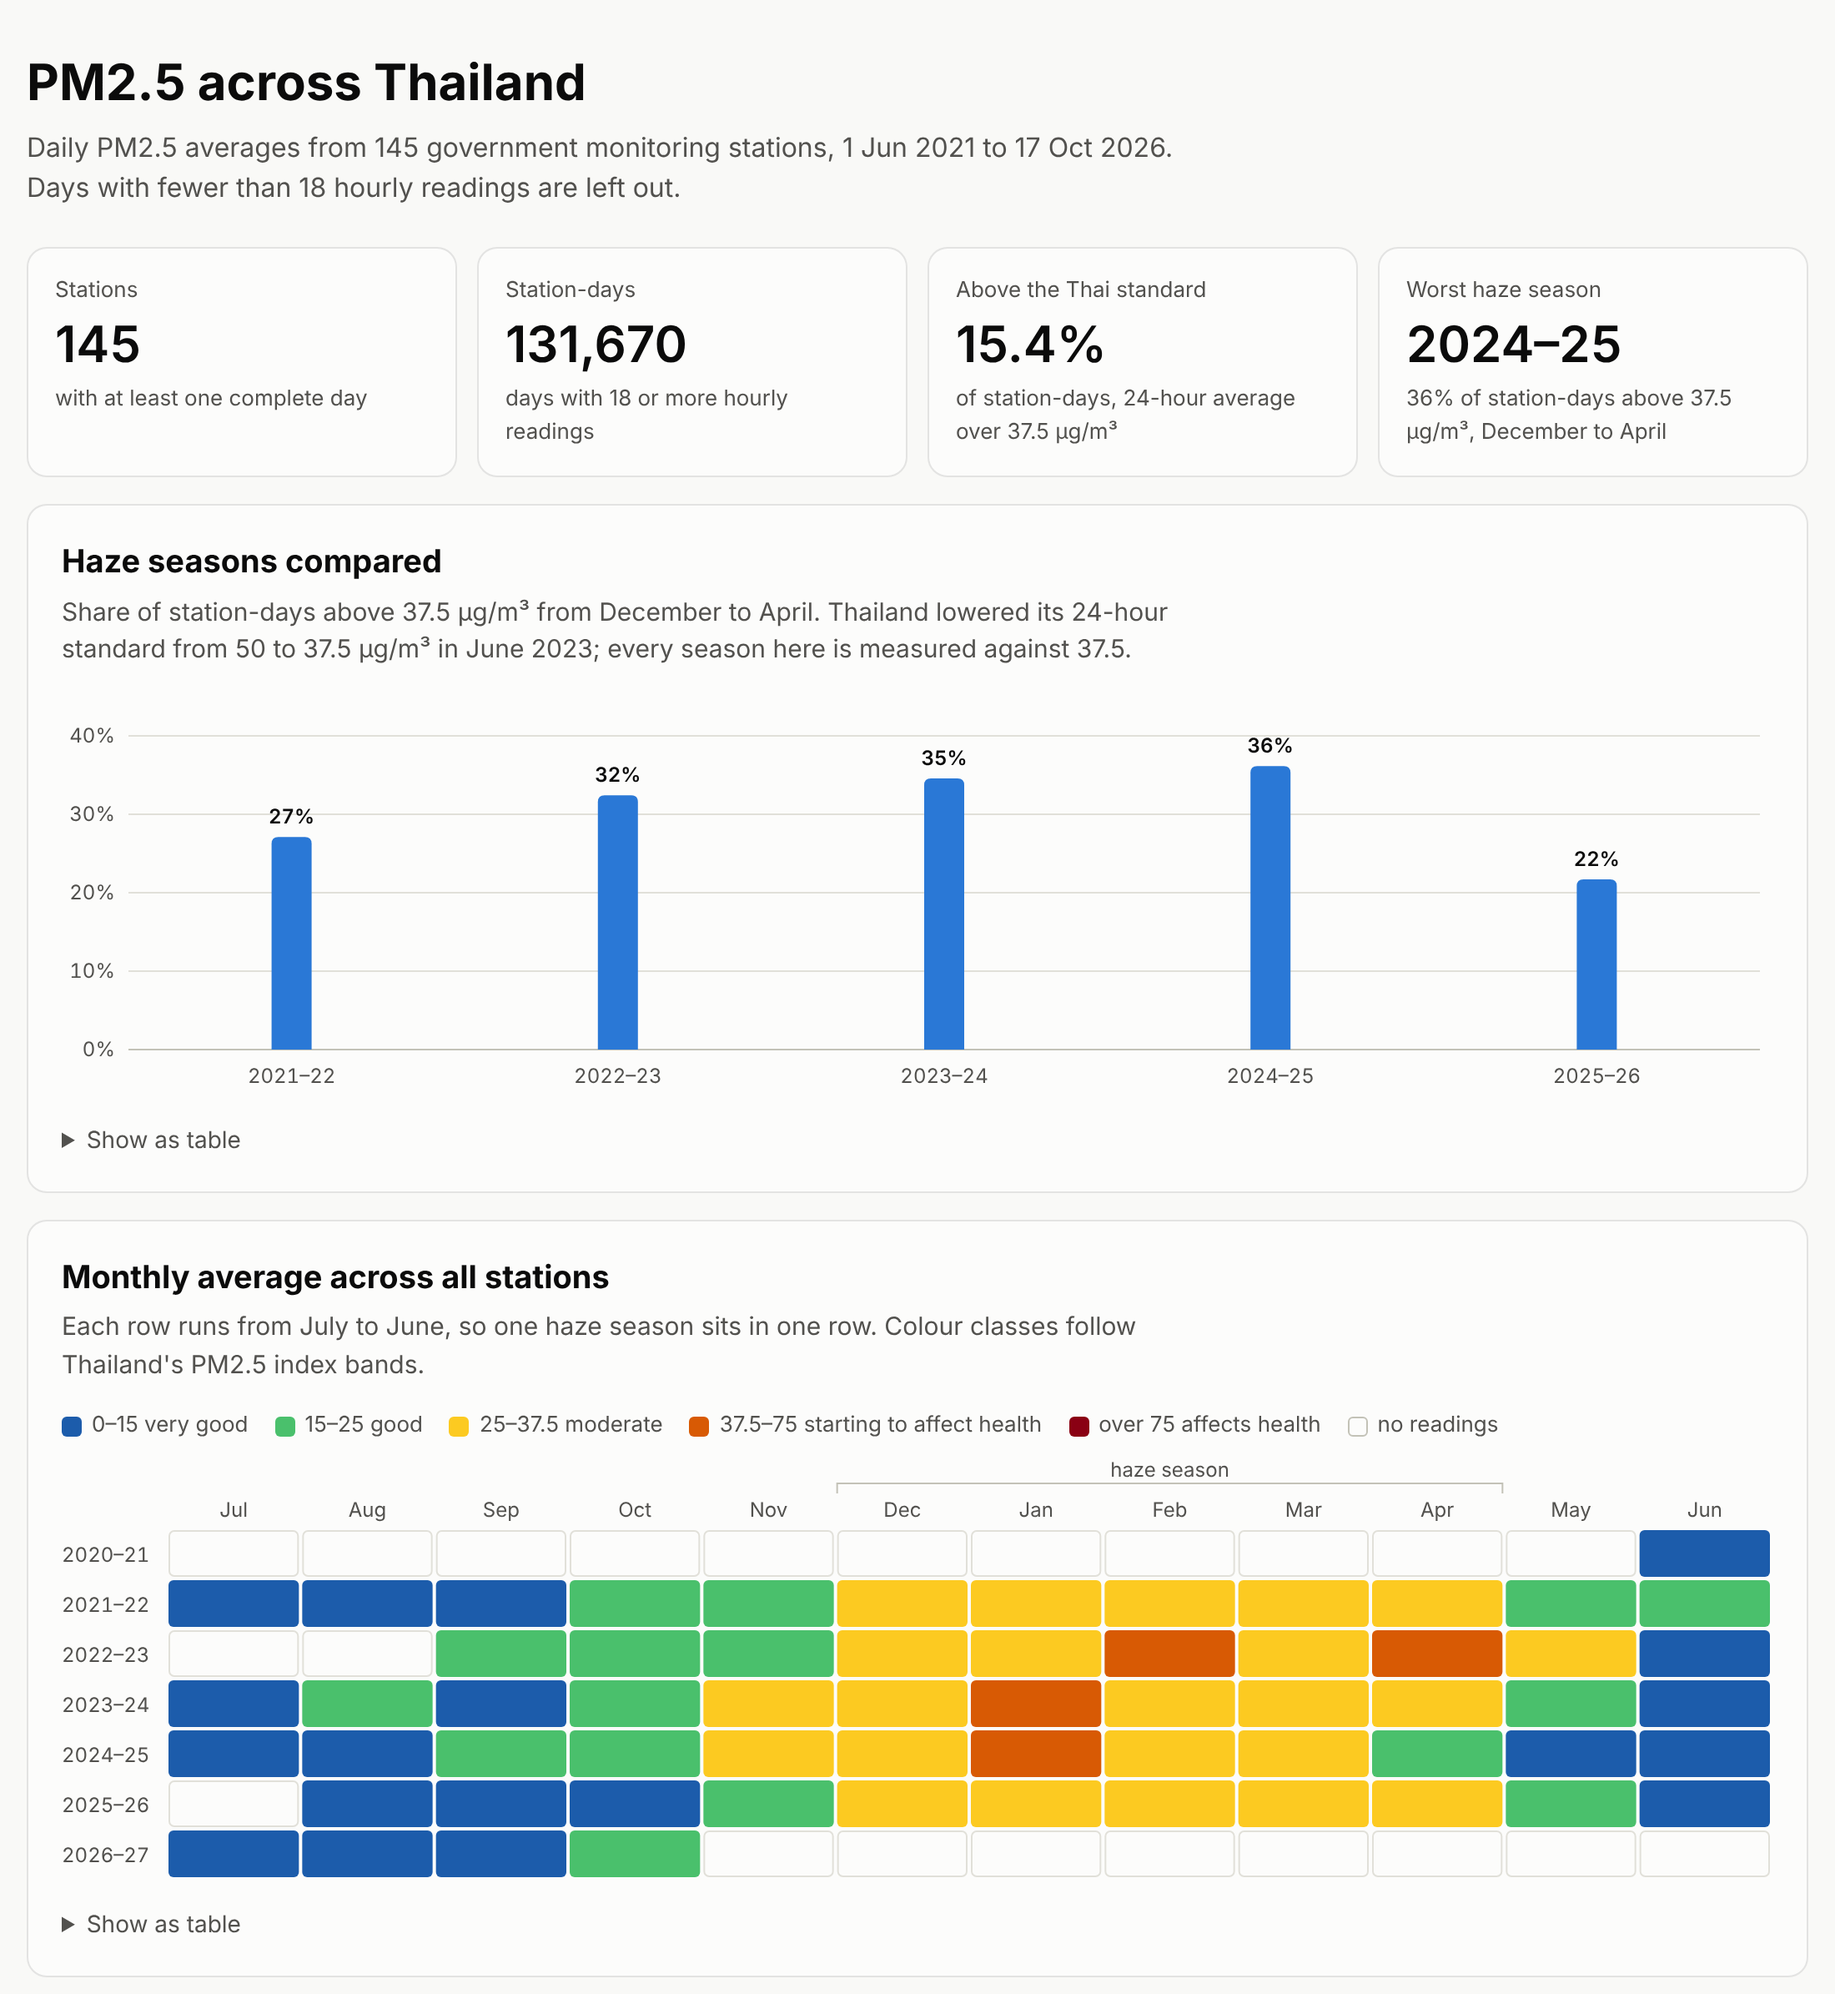
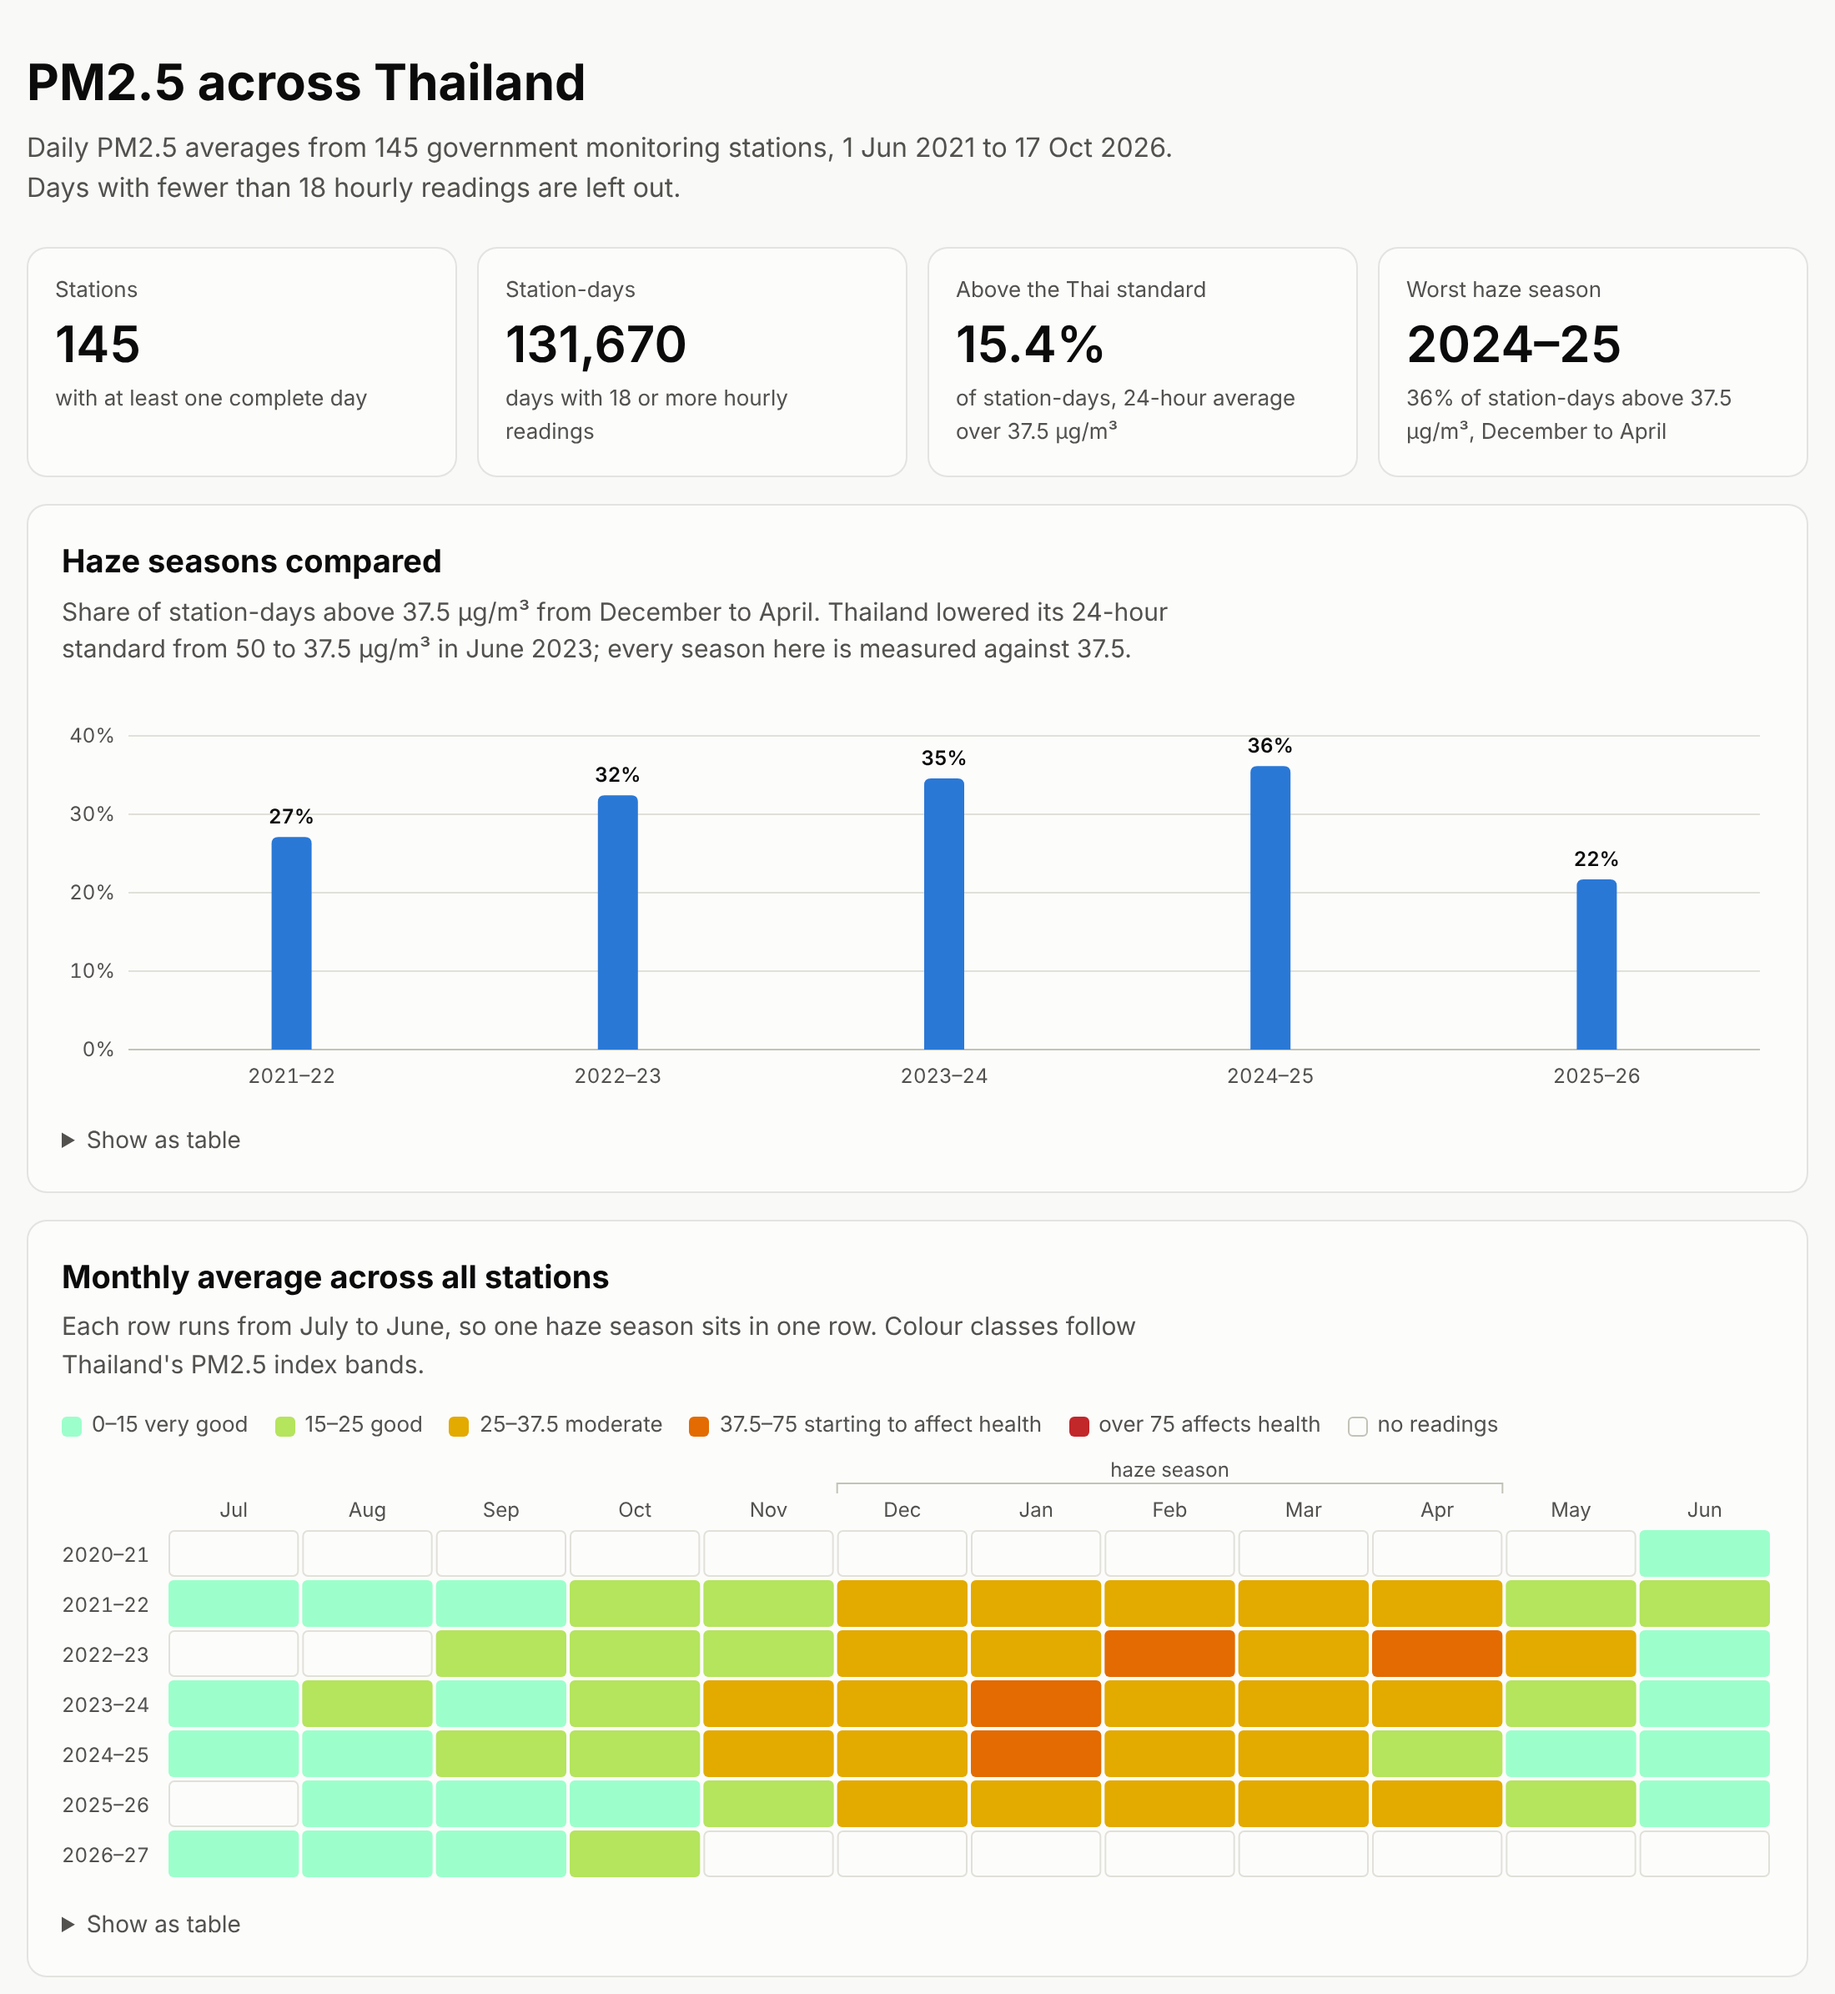
Dashboard: one mint-to-red ramp for the PM2.5 bands
The five bands now run mint, lime, gold, orange, red, each darker than
the last, in both themes. The order reads as one scale, and readers with
red-green colour blindness still see five separate steps.

Changed region(s): [[0.0927, 0.7431, 0.9891, 0.9598]]

diff --git a/dashboard/style.css b/dashboard/style.css
@@ -10,14 +10,14 @@
   --land: #f0efec;
   --series-1: #2a78d6;
   --series-2: #eb6834;
-  /* Thailand's five PM2.5 index bands in the official index colours: blue, green, yellow, orange,
-     red. Green, yellow, orange and red each get a different lightness, because red-green
-     colour-blind readers tell them apart by lightness alone. */
-  --band-1: #1c5cab;
-  --band-2: #4ac06c;
-  --band-3: #fcca21;
-  --band-4: #d85a04;
-  --band-5: #8a0013;
+  /* Thailand's five PM2.5 index bands as one ramp: mint, lime, gold, orange, red. Each band is
+     darker than the one before, so the order reads at a glance, and red-green colour-blind
+     readers, who tell these hues apart mostly by lightness, still see five steps. */
+  --band-1: #9cffcb;
+  --band-2: #b5e45d;
+  --band-3: #e3aa00;
+  --band-4: #e36b02;
+  --band-5: #c2272a;
   --font: system-ui, -apple-system, "Segoe UI", sans-serif;
 }
 
@@ -34,11 +34,11 @@
     --land: #242423;
     --series-1: #3987e5;
     --series-2: #d95926;
-    --band-1: #1c5cab;
-    --band-2: #70c35d;
-    --band-3: #ffd988;
-    --band-4: #d16100;
-    --band-5: #b1011b;
+    --band-1: #96f6c0;
+    --band-2: #aad951;
+    --band-3: #d59f05;
+    --band-4: #dc6702;
+    --band-5: #c52b30;
   }
 }
 
